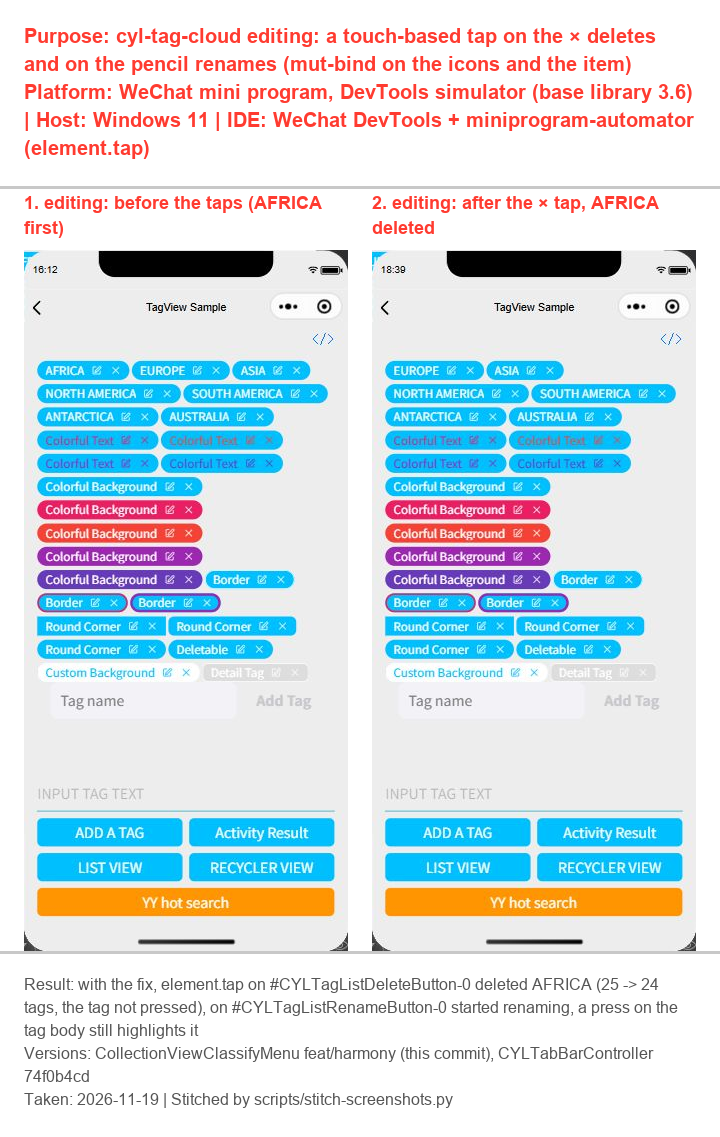
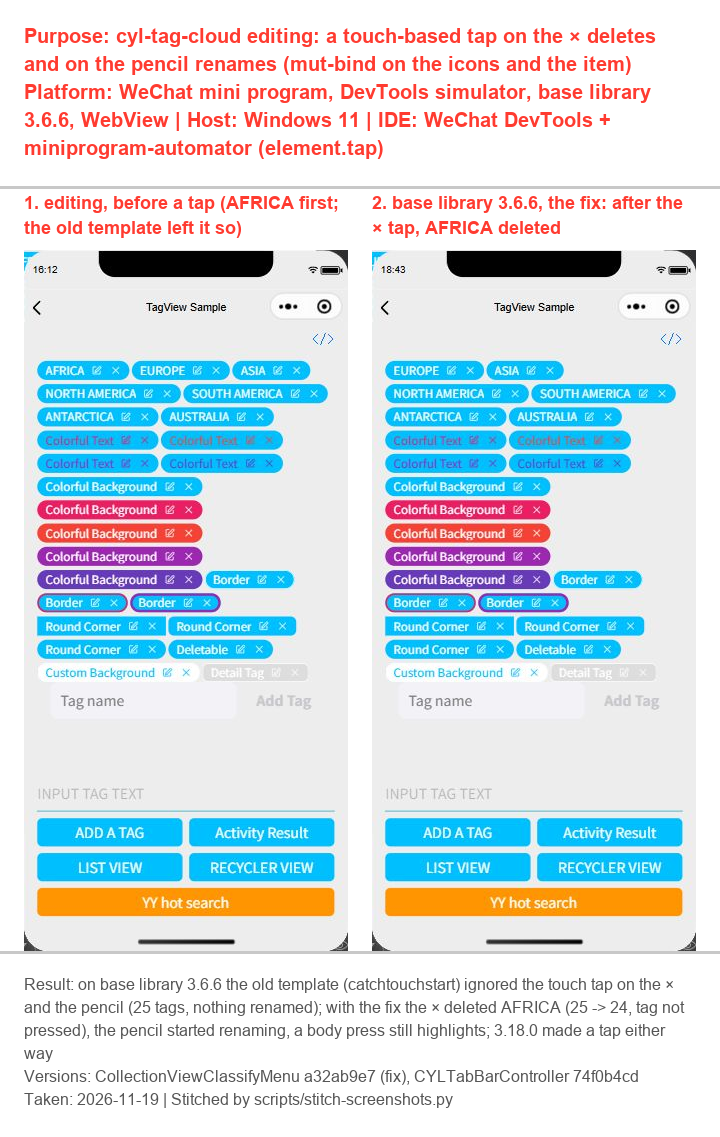
docs(miniprogram): 📝 the × / pencil tap bug reproduced on base library 3.6.6; closed at 100
- the old template ignores the touch tap on base library 3.6.6 and works on 3.18.0; the mut-bind fix works on both
- the CYLSearchViewController session confirmed it on its page; screenshot on 3.6.6

By @ChenYilong <luohanchenyilong@163.com>

Claude-Session: https://claude.ai/code/session_017y7XP2ptDmtCUfFAYtzGxS

Changed region(s): [[0.0306, 0.8619, 0.9472, 0.9543], [0.0306, 0.0616, 0.9778, 0.2155], [0.5194, 0.1539, 0.9472, 0.2155]]

diff --git a/docs/issue-progress.md b/docs/issue-progress.md
@@ -1410,20 +1410,23 @@ tags: [issues, ui, cocoapods, progress]
   tap.
 - **Acceptance (100):** reproduced here (20); the fix in the library (40); a regression test (20); a labelled DevTools
   check (20). Pass: 60.
-- **Reproduction here (0 / 20, written down):** on our TagView sample page in the same DevTools, miniprogram-automator's
-  `element.tap()` on the × and the pencil worked with the old template too (checked that DevTools rendered the old
-  template: a `data-template="old"` marker on the icon). So `catchtouchstart` alone does not block the tap on our
-  page; what differs on the CYLSearchViewController page was not found. (The wechatide `automation_element_action`
-  cannot reach nodes inside a custom component: its selector stops at the component.)
+- **Reproduction here (20 / 20):** it depends on the base library. On our TagView sample with the old template,
+  miniprogram-automator's `element.tap()` on the × and the pencil worked on base library 3.18.0 (this machine's local
+  `project.private.config.json`) and did nothing on 3.6.6 (the CYLSearchViewController project's version; 25 tags,
+  nothing renamed), WebView in both. So older base libraries make no tap from touches whose touchstart was caught.
+  (`data-template="old"` on the icon confirmed which template DevTools rendered; the wechatide
+  `automation_element_action` cannot reach nodes inside a custom component, so the check used miniprogram-automator on
+  our project's own automation port, `cli auto --auto-port 9421`.)
 - **Fix (library, 40 / 40):** `catchtouchstart="noop"` on the two delete indicators and the two editing icons ->
   `mut-bind:touchstart="noop"`, and the item's `bindtouchstart` -> `mut-bind:touchstart` (base library 2.8.2+; the
   project's is 3.6): a touch on an icon still does not press the tag, and nothing on the icons catches touchstart. The
   CYLSearchViewController session's check on its page: the × and the pencil work with it and failed without it.
 - **Regression test (20 / 20):** `test/tag-cloud-renaming.test.js`: no `catchtouchstart` in the cloud; `mut-bind` on the
   item and on all four icons. `npm test` 162 / 162 with and without `verify-package.js`.
-- **DevTools (20 / 20):** with the fix, `element.tap()` on `#CYLTagListDeleteButton-0` deleted the tag (25 -> 24, not
-  pressed), on `#CYLTagListRenameButton-0` started renaming, a press on the tag body still highlights it;
-  `docs/assets/miniprogram-tag-cloud-icon-taps.png`. **Score: 80 / 100** (the failure not reproduced on our page).
+- **DevTools (20 / 20):** on base library 3.6.6 with the fix, `element.tap()` on `#CYLTagListDeleteButton-0` deleted the
+  tag (25 -> 24, not pressed), on `#CYLTagListRenameButton-0` started renaming, a press on the tag body still
+  highlights it (and the same on 3.18.0); `docs/assets/miniprogram-tag-cloud-icon-taps.png`. The CYLSearchViewController
+  session confirmed it on its page (a32ab9e7). **Score: 100 / 100.**
 
 ### TODO (2026-11-19, `feat/harmony`): a "word picker" (选词填入) tag list style
 
